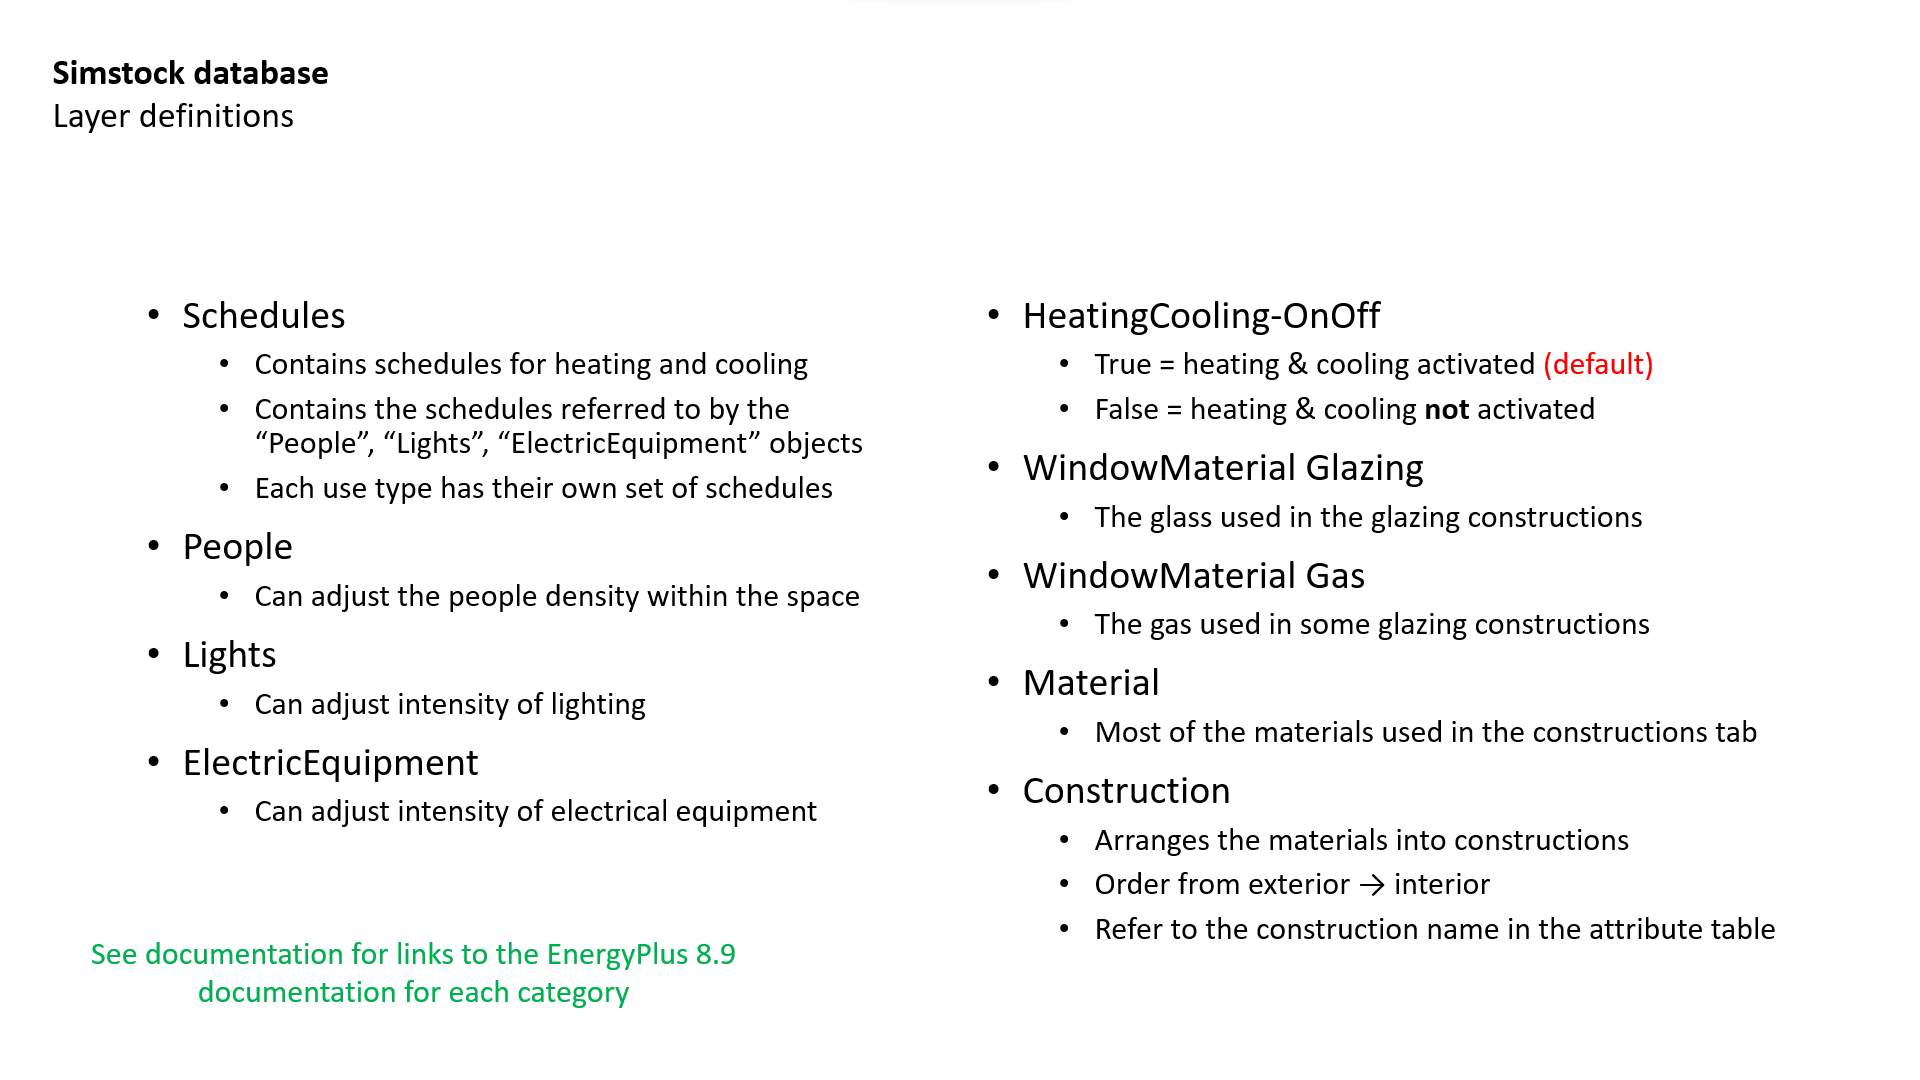
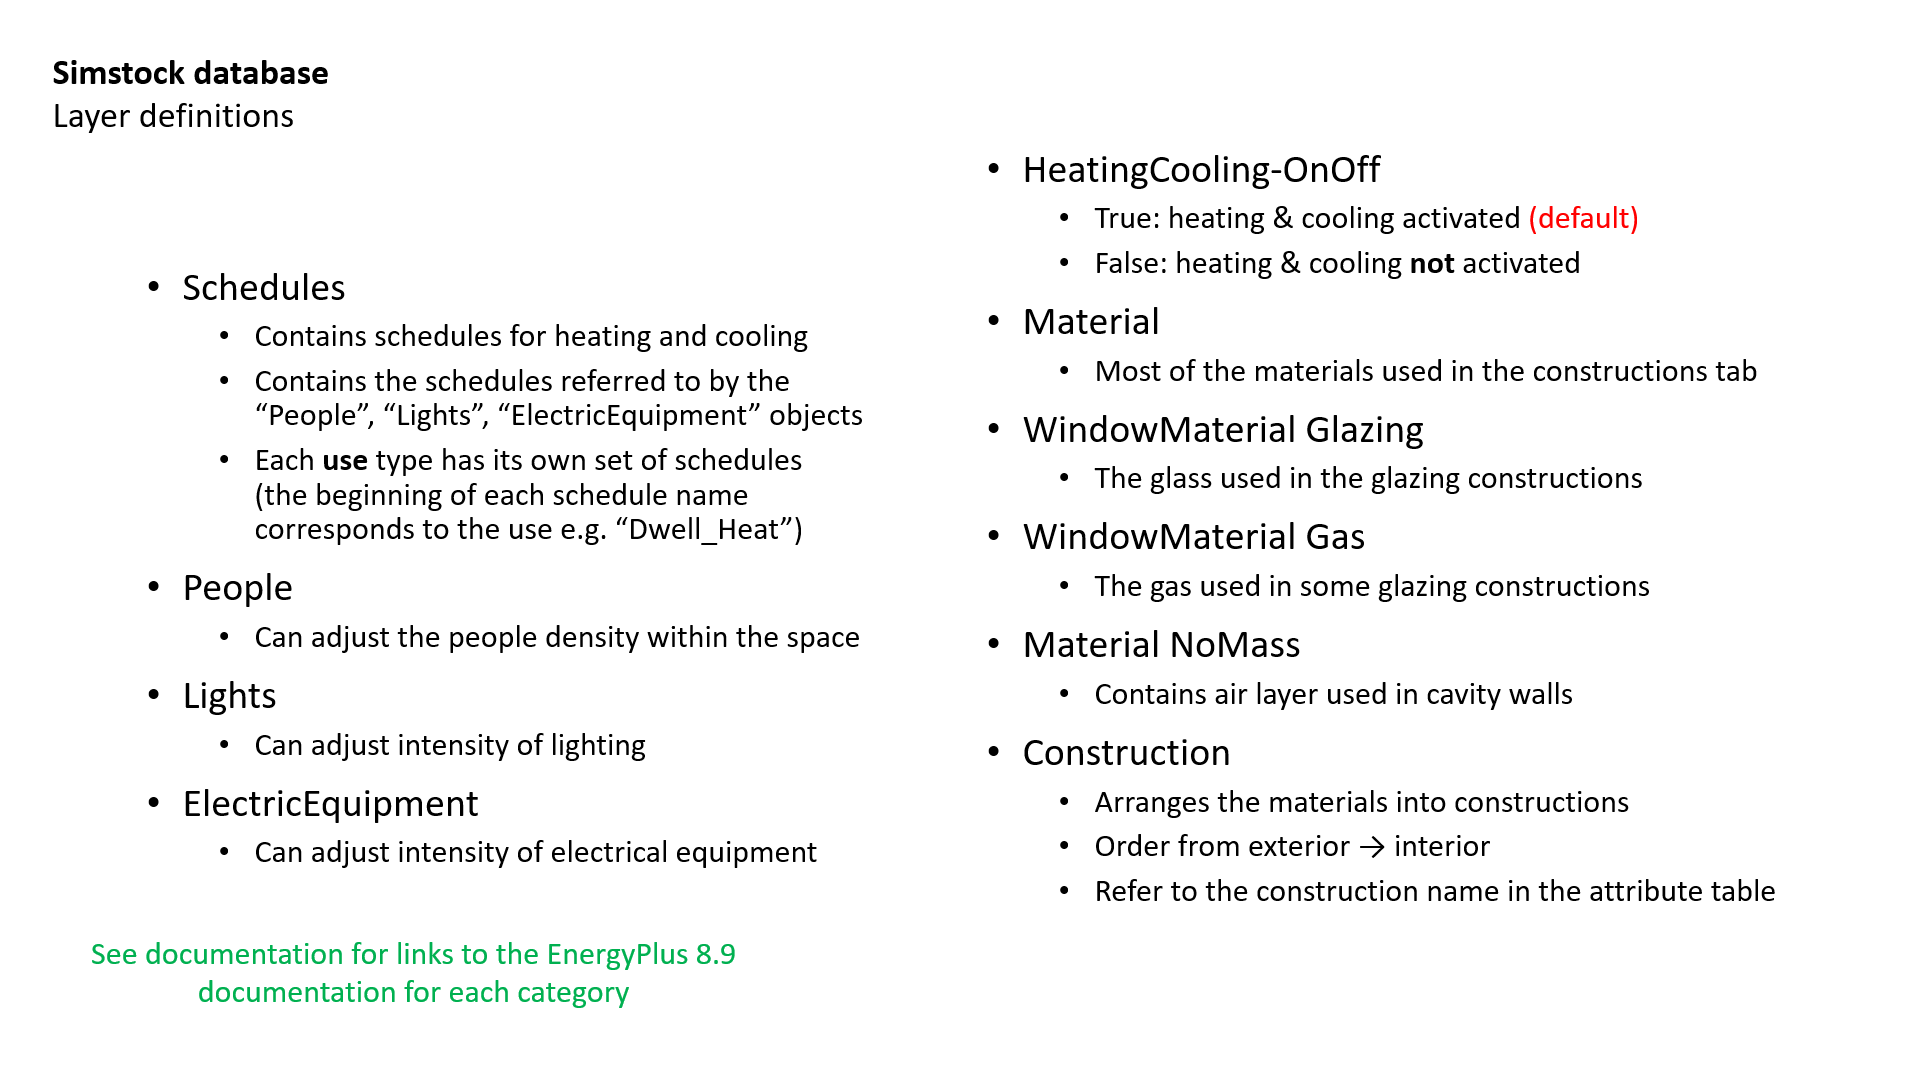
Update Simstock QGIS docs and figures
Include layer relationships figure and explanation.

Changed region(s): [[0.5312, 0.1222, 0.9375, 0.8861], [0.0938, 0.2444, 0.4375, 0.7944]]

diff --git a/docs/source/simstockqgis.rst b/docs/source/simstockqgis.rst
@@ -427,6 +427,20 @@ Each of the database layers above have unique entries for `Dwell`, `Office`, `Sh
    The uses are fixed; they cannot be added or renamed. Instead, you can personalise the database objects belonging to `Use3` and `Use4` to create your own use types if necessary. A future planned feature is to generalise the mixed-use handling to allow more flexibility.
 
 
+.. _Database relationships:
+
+Database relationships
+^^^^^^^^^
+Some objects in the database are dependent on an object from another layer. For example, the people, lights and equipment objects will reference schedules.
+
+The figure below provides a map of these dependencies. It is important to consider these relationships when editing the database, since a change to one object can have a knock-on effect.
+
+.. figure:: Figures/QG-database-dependencies.png
+   :width: 650px
+   :alt: alternate text
+   :align: left
+
+
 Running Simstock and the simulations
 ------------------------------------
 After the input data is setup, Simstock can be run. This will take in all the information (geometry, attribute table, database) and Simstock will produce EnergyPlus models of the area. These model idf files will be output into the cwd. The plugin will then automatically launch the EnergyPlus simulations. The results will be loaded as a new layer in QGIS. The raw results will also be output into the cwd.
